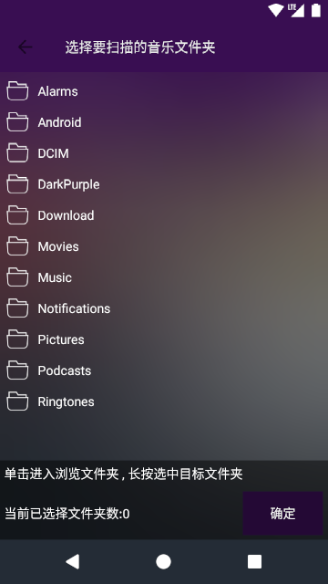
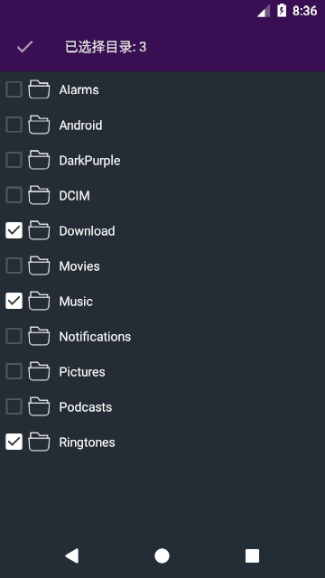
更新截图

diff --git a/README.md b/README.md
@@ -43,7 +43,7 @@ CoverBox 的作者为 Henry Hu
 在虚拟机下的 Android 8.0 版本中，Google v4兼容包(v26.0.0-alpha1)中的 MediaSessionCompat 会产生异常。
 在新版本发布后再进行相应的适配工作。
 
-# 截图展示 (2017/8/21 23：13)
+# 截图展示 (2017/8/24 16：42)
 ##### *截图无法展示所有应用的细节*
 
 ### 播放界面<p></p>
@@ -63,7 +63,7 @@ CoverBox 的作者为 Henry Hu
 
 ![](https://github.com/ocwvar/DarkPurple/blob/dev/app/showcase/screenshots/playlist_1.png)
 ![](https://github.com/ocwvar/DarkPurple/blob/dev/app/showcase/screenshots/playlist_2.png)
-![](https://github.com/ocwvar/DarkPurple/blob/dev/app/showcase/screenshots/playlist_3.jpg)
+![](https://github.com/ocwvar/DarkPurple/blob/dev/app/showcase/screenshots/playlist_3.png)
 
 ## Notification 样式(Android 7.1.2)<p></p>
 ![](https://github.com/ocwvar/DarkPurple/blob/dev/app/showcase/screenshots/notification_1.png)
